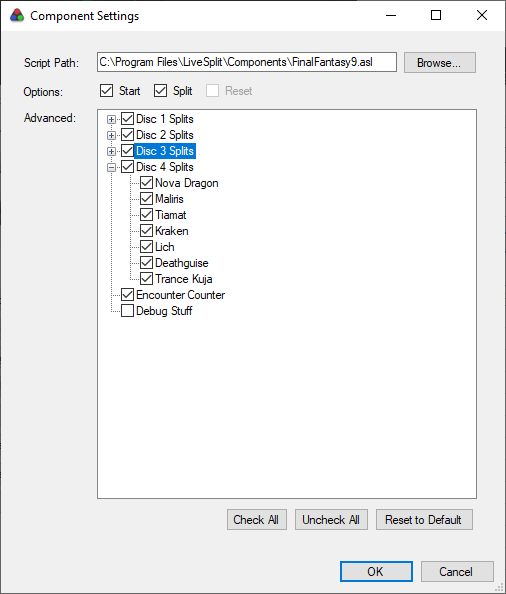
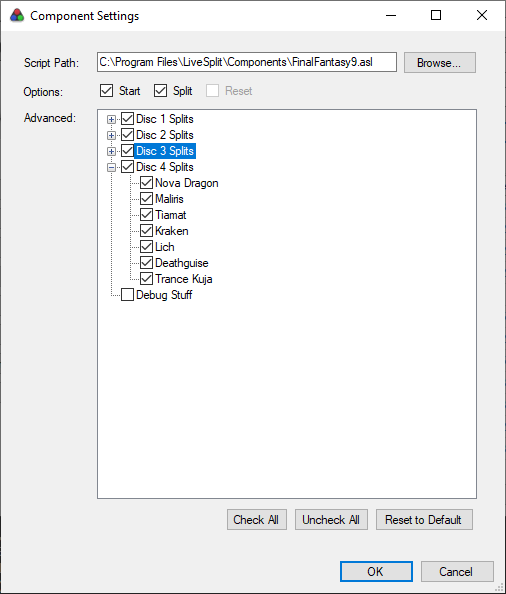
Update README (no more encounter counter)

diff --git a/README.md b/README.md
@@ -5,7 +5,6 @@
 - Auto start
 - Auto split
 - Load remover
-- Encounter counter
 
 ## Install
 
@@ -24,8 +23,6 @@ On the "Splits Editor", make sure that the game is set to exactly "Final Fantasy
 ### 3. Auto splitter settings
 
 Press the "Settings" button next to the "Activate" button and a new "Component Settings" window should appear. Here you can select if you want to auto start the timer, auto split and which splits you want. Just make sure that if you uncheck some split, you also remove it from your splits on the previous window (for example, if you don't kill Tantarian in your route, you should remove the "Tantarian" split). The auto-splitter will split based on the order of the splits, so you can name them whatever you want (for example, you can rename "Steiner 3" to "Bomb" and it'll work).
-
-By default, it also includes an encounter counter that will be explained bellow. If you don't want to use the encounter counter, you can just uncheck it here.
 
 ![](Install/auto-splitter-settings.png)
 
@@ -50,13 +47,3 @@ To change the current comparison to use Game Time (Time Without Loads) instead o
 ![](Install/compare-game-time.png)
 
 This way, the "Time Without Loads" will be used on your splits but you'll have an additional timer using the "Alternate Timing Method" component to show the "Time With Loads".
-
-### 5. Configure the encounter counter
-
-Make sure that "Encounter Counter" is checked as explained on step 3. After that, go to "Edit Layout" again and this time, add a new "Text" component.
-
-![](Install/add-text.png)
-
-Double click the Text component in the list to open its settings. Change the left text to be **exactly** "Encounters:".
-
-![](Install/text-encounter-settings.png)
